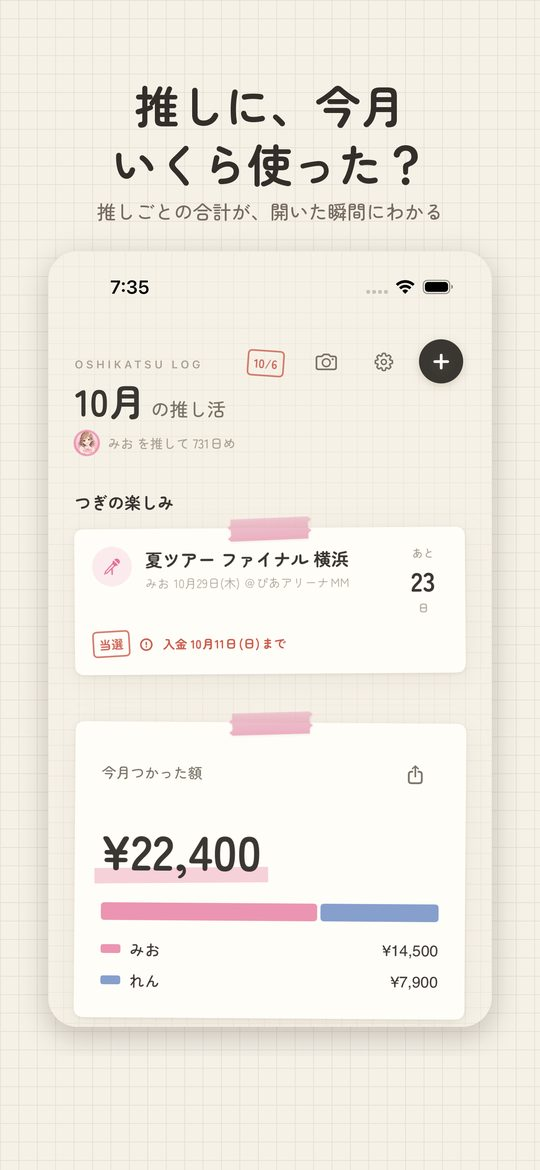
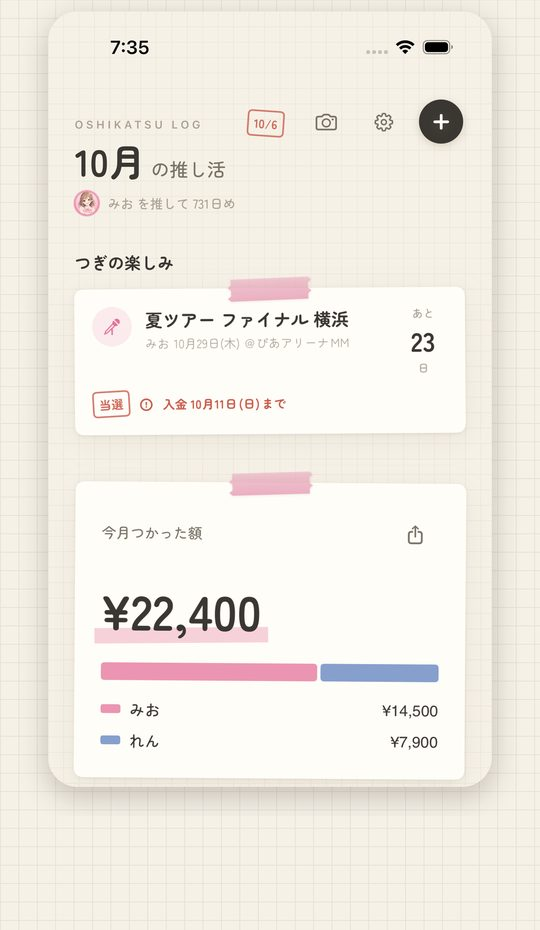
LP: problem-first, fewer words

diff --git a/index.html b/index.html
@@ -1,71 +1,43 @@
 <!doctype html><html lang="ja"><head><meta charset="utf-8"><meta name="viewport" content="width=device-width,initial-scale=1,viewport-fit=cover">
-<title>推しログ｜推し活の記録・家計簿・当落管理アプリ</title>
-<meta name="description" content="物販で買ったもの、遠征費、チケットの当落と入金を数秒で記録。推しごとにまとまって、あとで振り返れる推し活手帳アプリ。広告なし・無料ではじめられます（iPhone）。">
+<title>推しログ｜推し活の家計簿アプリ（iPhone）</title>
+<meta name="description" content="推しに使ったお金が、ぜんぶ見える。物販・遠征・チケットを数秒で記録できる推し活の家計簿アプリ。無料・広告なし。">
 <link rel="canonical" href="https://oshilog.amorjp.com/">
-<meta property="og:title" content="推しログ｜推し活、ぜんぶ残る。"><meta property="og:description" content="物販・遠征・当落を数秒で記録できる推し活手帳アプリ（iPhone）">
+<meta property="og:title" content="推しログ｜推しに使ったお金が、ぜんぶ見える"><meta property="og:description" content="推し活の家計簿アプリ（iPhone・無料）">
 <meta property="og:image" content="https://oshilog.amorjp.com/assets/og.jpg"><meta name="twitter:card" content="summary_large_image">
 <meta name="apple-itunes-app" content="app-id=6779825147">
 <link rel="preconnect" href="https://fonts.googleapis.com"><link rel="preconnect" href="https://fonts.gstatic.com" crossorigin>
 <link href="https://fonts.googleapis.com/css2?family=Zen+Maru+Gothic:wght@500;700&display=swap" rel="stylesheet">
 <style>
-:root{--paper:#F6F1E7;--grid:#e8e1d4;--ink:#332e2a;--ink2:#766c62;--pink:#e5739b;--red:#c44e3a;--card:#fffdf8}
+:root{--paper:#F6F1E7;--grid:#e8e1d4;--ink:#332e2a;--ink2:#766c62;--pink:#e5739b}
 *{box-sizing:border-box} body{margin:0;font-family:"Zen Maru Gothic",-apple-system,"Hiragino Maru Gothic ProN",sans-serif;color:var(--ink);background:var(--paper);
-background-image:linear-gradient(var(--grid) 1px,transparent 1px),linear-gradient(90deg,var(--grid) 1px,transparent 1px);background-size:28px 28px;line-height:1.75}
-main{max-width:960px;margin:0 auto;padding:0 20px 120px}
-.hero{display:grid;gap:24px;align-items:center;padding:36px 0 8px} @media(min-width:820px){.hero{grid-template-columns:1.05fr 1fr}}
-.cap{letter-spacing:.25em;font-size:12px;color:var(--ink2)} h1{font-size:clamp(34px,8vw,56px);line-height:1.25;margin:8px 0 12px;font-weight:700}
-.lead{font-size:17px;color:var(--ink2);margin:0 0 20px}
-.heroimg{width:100%;height:auto;max-width:380px;justify-self:center;display:block;margin:0 auto}
-.btn{display:inline-flex;gap:10px;align-items:center;justify-content:center;background:var(--ink);color:#fff;text-decoration:none;border-radius:999px;padding:16px 28px;font-weight:700;font-size:17px}
-.btn small{font-weight:500;opacity:.75;font-size:12px} .meta{font-size:13px;color:var(--ink2);margin-top:10px}
-.badges{display:flex;flex-wrap:wrap;gap:8px;margin:18px 0 0} .badges span{background:var(--card);border:1px solid var(--grid);border-radius:999px;padding:6px 12px;font-size:13px}
-h2{font-size:clamp(24px,5vw,32px);margin:64px 0 8px;text-align:center} .sub{text-align:center;color:var(--ink2);margin:0 0 24px}
-.shots{display:flex;gap:16px;overflow-x:auto;scroll-snap-type:x mandatory;padding:8px 4px 20px;-webkit-overflow-scrolling:touch}
-.shots img{width:220px;flex:0 0 auto;border-radius:24px;scroll-snap-align:center;box-shadow:0 10px 26px rgba(70,45,35,.15);background:#fff}
-@media(min-width:960px){.shots{justify-content:center}}
-.feat{display:grid;gap:16px} @media(min-width:820px){.feat{grid-template-columns:repeat(3,1fr)}}
-.f{background:var(--card);border-radius:18px;padding:22px;box-shadow:0 2px 6px rgba(0,0,0,.05);position:relative}
-.f:before{content:"";position:absolute;top:-9px;left:50%;width:84px;height:18px;margin-left:-42px;background:rgba(229,115,155,.45);transform:rotate(-2deg)}
-.f h3{margin:6px 0 6px;font-size:19px} .f p{margin:0;color:var(--ink2);font-size:15px}
-.promise{background:var(--card);border-radius:18px;padding:22px 24px;max-width:640px;margin:0 auto} .promise li{margin:6px 0}
-.price{display:grid;gap:12px;max-width:640px;margin:0 auto} @media(min-width:640px){.price{grid-template-columns:1fr 1fr}}
-.p{background:var(--card);border-radius:16px;padding:18px 20px} .p b{font-size:18px} .p ul{padding-left:18px;margin:8px 0 0;color:var(--ink2);font-size:14px}
-details{background:var(--card);border-radius:14px;padding:14px 18px;margin:10px auto;max-width:640px} summary{font-weight:700;cursor:pointer}
-.end{text-align:center;margin-top:56px} footer{text-align:center;font-size:13px;color:var(--ink2);margin-top:48px} footer a{color:var(--red)}
-.sticky{position:fixed;left:0;right:0;bottom:0;padding:12px 16px calc(12px + env(safe-area-inset-bottom));background:linear-gradient(transparent,var(--paper) 35%);display:flex;justify-content:center}
+background-image:linear-gradient(var(--grid) 1px,transparent 1px),linear-gradient(90deg,var(--grid) 1px,transparent 1px);background-size:28px 28px}
+main{max-width:980px;margin:0 auto;padding:0 20px 110px}
+.hero{text-align:center;padding:44px 0 8px} .hero h1{font-size:clamp(34px,9vw,60px);line-height:1.25;margin:0 0 10px}
+.hero .s{font-size:18px;color:var(--ink2);margin:0 0 22px} .hero img{width:min(80vw,340px);height:auto;margin:24px auto 0;display:block}
+.btn{display:inline-flex;gap:10px;align-items:center;background:var(--ink);color:#fff;text-decoration:none;border-radius:999px;padding:16px 30px;font-weight:700;font-size:18px}
+.btn small{font-weight:500;opacity:.75;font-size:13px}
+.chips{display:flex;justify-content:center;gap:8px;margin-top:14px;font-size:14px;color:var(--ink2)} .chips span:not(:last-child):after{content:"・";margin-left:8px}
+.b{display:grid;gap:18px;align-items:center;margin:72px 0 0} .b img{width:min(72vw,300px);height:auto;justify-self:center;border-radius:28px;box-shadow:0 16px 40px rgba(70,45,35,.16)}
+@media(min-width:820px){.b{grid-template-columns:1fr 1fr} .b:nth-of-type(even) .t{order:2}}
+.t{text-align:center} .q{font-size:clamp(26px,6.5vw,40px);font-weight:700;margin:0;line-height:1.35}
+.a{display:inline-block;font-size:clamp(18px,4.5vw,24px);font-weight:700;margin:12px 0 0;padding:2px 10px;background:linear-gradient(transparent 55%,rgba(229,115,155,.35) 55%)}
+.end{text-align:center;margin-top:80px} .end p{font-size:clamp(24px,6vw,34px);font-weight:700;margin:0 0 18px}
+footer{text-align:center;font-size:12px;color:var(--ink2);margin-top:56px;line-height:2} footer a{color:var(--ink2)}
+.sticky{position:fixed;left:0;right:0;bottom:0;padding:12px 16px calc(12px + env(safe-area-inset-bottom));background:linear-gradient(transparent,var(--paper) 40%);display:flex;justify-content:center}
 @media(min-width:820px){.sticky{display:none}}
 </style></head><body><main>
-<section class="hero"><div>
-<div class="cap">OSHIKATSU LOG</div>
-<h1>推し活、<br>ぜんぶ残る。</h1>
-<p class="lead">物販で買ったもの、遠征費、チケットの当落と入金。<br>推しを想った時間とお金を、数秒で手帳に。</p>
+<section class="hero">
+<h1>推しに使ったお金、<br>ぜんぶ見える。</h1>
+<p class="s">推し活の家計簿アプリ</p>
 <a class="btn" href="https://apps.apple.com/jp/app/apple-store/id6779825147?ct=lp_top&mt=8&pt=127976734">App Store で見る <small>無料</small></a>
-<div class="meta">iPhone（iOS 17 以降）｜App Store 評価 ★4.8</div>
-<div class="badges"><span>広告なし</span><span>記録は端末の中</span><span>書き出し・復元は無料</span></div>
-</div><img class="heroimg" src="assets/hero.jpg" alt="推しの写真と「推して731日め」の推しログのカード" width="720" height="720"></section>
-
-<h2>手帳みたいに、書いて、見返す</h2><p class="sub">使い込んだ方眼ノートのような画面です</p>
-<div class="shots"><img src="assets/1-month.jpg" alt="今月いくら使ったか" loading="lazy"><img src="assets/2-buppan.jpg" alt="物販で買ったら数秒で記録" loading="lazy"><img src="assets/3-schedule.jpg" alt="当落も入金も忘れない" loading="lazy"><img src="assets/4-widget.jpg" alt="推しと何日、ホーム画面に" loading="lazy"></div>
-
-<h2>推し活のための3つ</h2><p class="sub">ふつうの家計簿では「娯楽費」にまとまってしまうものを、推しごとに</p>
-<div class="feat">
-<div class="f"><h3>物販の列を離れたら、数秒で</h3><p>金額と「どこで」だけで記録。チケット・グッズ・遠征・配信・CD・コラボカフェに分けて、推しごとに自動でまとまります。</p></div>
-<div class="f"><h3>当落と入金を、忘れない</h3><p>予定に応募中・当選・落選を付けて、当落発表の前日にお知らせ。当選したら入金締切も残せます。</p></div>
-<div class="f"><h3>あとで誇れる記録に</h3><p>ライブの翌日に「どうだった？」。月のはじめには先月が一冊にまとまり、これまで会いに行った回数と推した日数を振り返れます。</p></div>
-</div>
-
-<h2>記録は、あなたのもの</h2>
-<ul class="promise"><li>広告も、ほかのアプリをまたぐ追跡もありません</li><li>記録はすべて端末の中に保存されます（Pro の iCloud 同期はあなたの iCloud に）</li><li>全データの書き出しと復元は、無料でいつでもできます</li></ul>
-
-<h2>料金</h2>
-<div class="price"><div class="p"><b>無料</b><ul><li>推し2人まで</li><li>今月と先月の見返し</li><li>当落・入金の記録、感想、共有カード</li></ul></div>
-<div class="p"><b>Pro　月額¥480／年額¥4,800</b><ul><li>推し3人以上・推しカラー全12色</li><li>それより前の月の見返し・CSV 書き出し</li><li>iCloud 同期・入金締切のお知らせ</li><li>年額は1か月無料でお試し</li></ul></div></div>
-
-<h2>よくある質問</h2>
-<details><summary>無料のままでも使えますか？</summary><p>はい。推し2人まで、今月と先月の記録はずっと無料です。</p></details>
-<details><summary>機種変更しても記録は残りますか？</summary><p>設定の「バックアップファイルを作る」で全データを書き出し、新しい iPhone で開けば戻せます（無料）。Pro なら iCloud 同期もできます。</p></details>
-<details><summary>Android 版はありますか？</summary><p>いまは iPhone だけです。</p></details>
-
-<div class="end"><a class="btn" href="https://apps.apple.com/jp/app/apple-store/id6779825147?ct=lp_bottom&mt=8&pt=127976734">推しログをはじめる <small>無料</small></a></div>
-<footer><a href="guide/">推し活の記録ガイド</a>｜<a href="build/">開発ログ</a>｜<a href="support.html">サポート</a>｜<a href="privacy.html">プライバシーポリシー</a>｜<a href="terms.html">利用規約</a><br>合同会社AMOR</footer>
+<div class="chips"><span>無料ではじめられる</span><span>広告なし</span><span>★4.8</span></div>
+<img class="card" src="assets/hero-money.jpg" alt="推しの写真と「これまで ¥128,400」のカード" width="720" height="720">
+</section>
+<section class="b"><div class="t"><p class="q">推しに、いくら使った？</p><p class="a">推しごとに自動で集計</p></div>
+<img src="assets/1-month.jpg" alt="推しごとの今月の合計が出る画面" loading="lazy"></section><section class="b"><div class="t"><p class="q">物販、レシートがない…</p><p class="a">金額だけ、数秒で記録</p></div>
+<img src="assets/2-buppan.jpg" alt="物販で買ったものを数秒で記録する画面" loading="lazy"></section><section class="b"><div class="t"><p class="q">入金締切、忘れそう</p><p class="a">当落と入金をまとめて管理</p></div>
+<img src="assets/3-schedule.jpg" alt="当落と入金締切が並ぶ予定の画面" loading="lazy"></section>
+<section class="end"><p>推し活、ぜんぶ残そう。</p><a class="btn" href="https://apps.apple.com/jp/app/apple-store/id6779825147?ct=lp_bottom&mt=8&pt=127976734">推しログをはじめる <small>無料</small></a></section>
+<footer>iPhone 用（iOS 17 以降）｜無料: 推し2人まで・今月と先月｜Pro: 月額¥480／年額¥4,800<br>
+<a href="guide/">推し活の記録ガイド</a>｜<a href="build/">開発ログ</a>｜<a href="support.html">サポート</a>｜<a href="privacy.html">プライバシー</a>｜<a href="terms.html">利用規約</a>｜合同会社AMOR</footer>
 </main><div class="sticky"><a class="btn" href="https://apps.apple.com/jp/app/apple-store/id6779825147?ct=lp_top&mt=8&pt=127976734">App Store で見る <small>無料</small></a></div></body></html>
